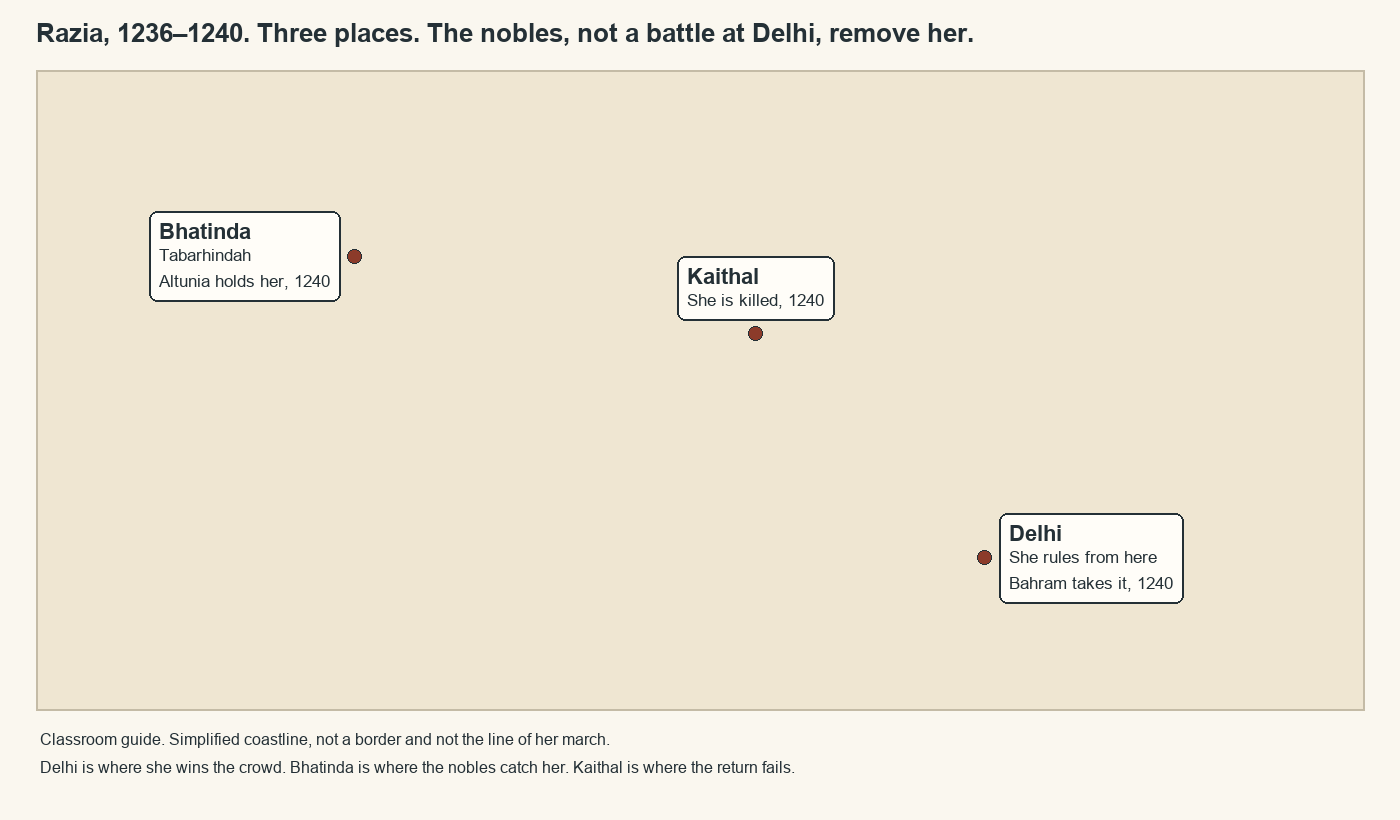
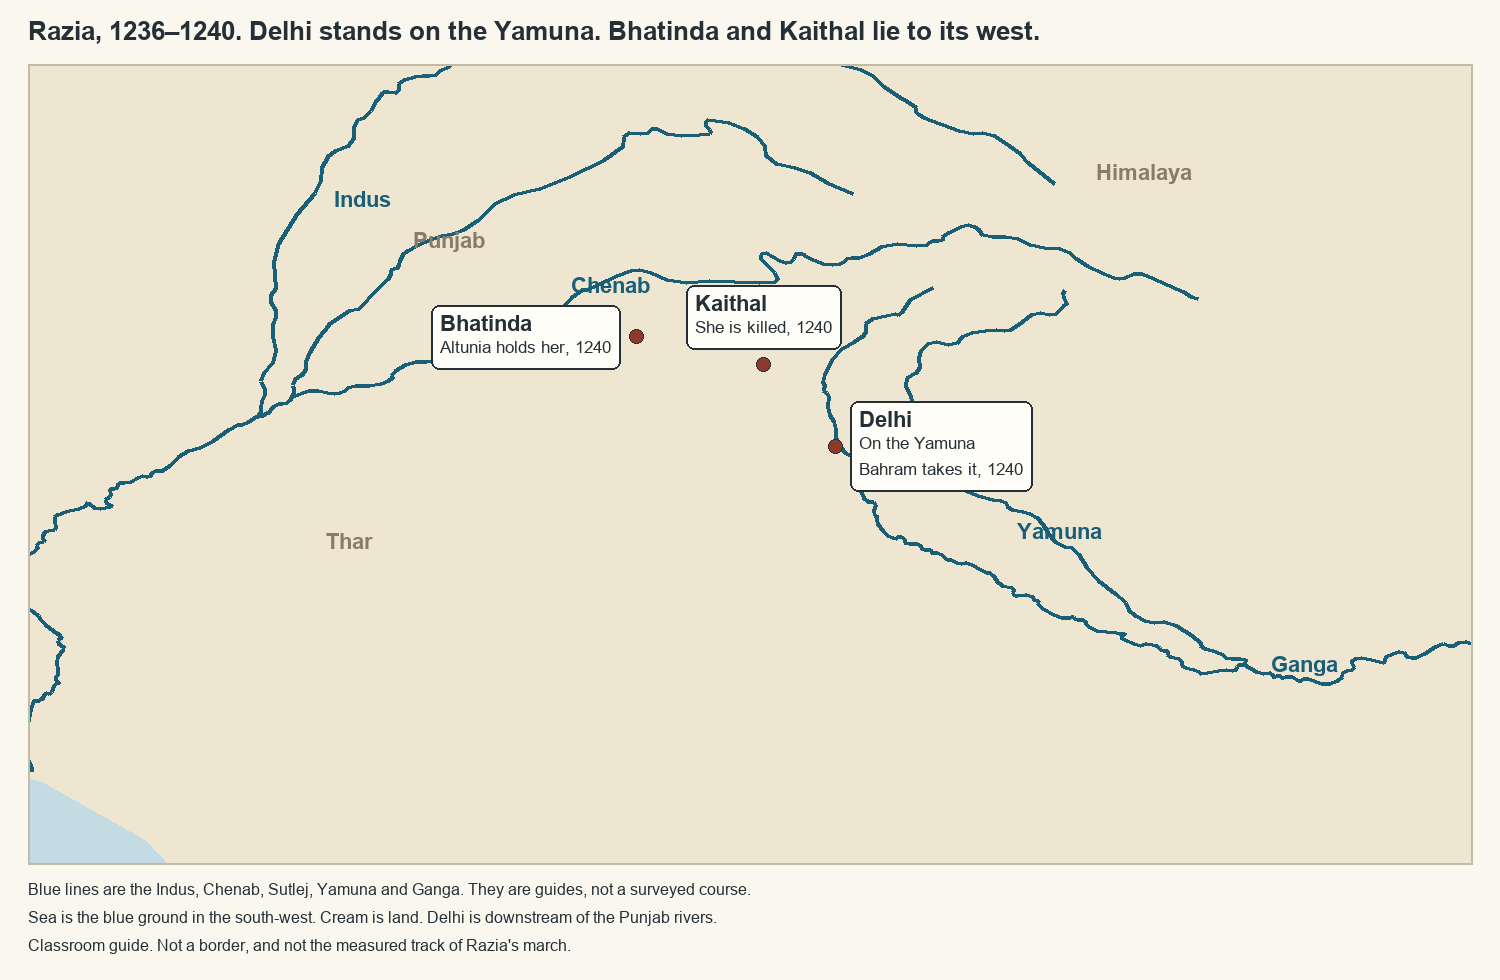
Remove outdated entries on Qutb ud-Din Aibak, Iltutmish, and Razia Sultan from medieval Indian history files. Update workspace configuration for improved navigation. Revise content to reflect accurate historical contexts and enhance clarity on the transitions between key figures in the Delhi Sultana

diff --git a/📜 History/India(Bharat)/Medieval Indian history/Early Medieval India/2. Delhi Sultan Period(1206-1526AD)/1. Slave Dynasty(1206)/07. Ghiyas ud-Din Balban (1266–1287).md b/📜 History/India(Bharat)/Medieval Indian history/Early Medieval India/2. Delhi Sultan Period(1206-1526AD)/1. Slave Dynasty(1206)/07. Ghiyas ud-Din Balban (1266–1287).md
@@ -1,0 +1,89 @@
+The exam name is **Balban**, also written Ghiyas ud-Din Balban. Before he took the throne he was **Ulugh Khan**. He is not Ghiyasuddin Tughlaq, and he is not a Khalji.
+
+Previous: [[06. Razia Sultan (1236–1240)]].
+
+![[balban-dates.png]]
+
+## Say this
+
+> **Balban, sultan from 1266 to 1287, restored the authority of the Delhi crown after twenty years in which the Turkish nobles made and unmade kings. He destroyed the power of the Group of Forty, held the Mongols on the Indus frontier, and put down the rebel Tughril in Bengal. He did not conquer the Deccan. The Slave line ends three years after his death, in 1290.**
+
+## The years before he is sultan
+
+Razia’s death did not produce a strong king. The Group of Forty kept disposing of sultans.
+
+| Years         | Sultan                                              | What to remember                                                                                                                                      |
+| ------------- | --------------------------------------------------- | ----------------------------------------------------------------------------------------------------------------------------------------------------- |
+| **1240–1242** | **Muizuddin Bahram**, Razia’s brother               | Killed by his own officers. In **1241** the Mongols sack Lahore. That disaster belongs to these weak years, not to Razia and not to a war Balban won. |
+| **1242–1246** | **Alauddin Masud**                                  | A stopgap. The nobles remove him.                                                                                                                     |
+| **1246–1266** | **Nasiruddin Mahmud**, the younger son of Iltutmish | He is not the son who died in Bengal in 1229. Balban, his father-in-law, is the real power, with the title **Ulugh Khan**.                            |
+| **1266–1287** | **Balban** himself                                  | The nobles raise him when Nasiruddin dies. He then breaks the group that had been raising sultans.                                                    |
+
+He had been Iltutmish’s slave, an Ilbari Turk, and one of the Forty. The man who came from that corps is the man who ends its power. That is the pivot of the reign.
+
+## Who he was
+
+| Point      | What to write                                                                                                                                                     |
+| ---------- | ----------------------------------------------------------------------------------------------------------------------------------------------------------------- |
+| Person     | **Ghiyas ud-Din Balban**. Turkish. Ilbari. A slave of Iltutmish.                                                                                                  |
+| 1246–1266  | Naib and father-in-law of Sultan Nasiruddin Mahmud. The court already obeys Ulugh Khan.                                                                           |
+| 1266       | Becomes sultan.                                                                                                                                                   |
+| Policy     | Textbooks call it **blood and iron**. Spies, harsh punishment, no pardon for a rebel.                                                                             |
+| Kingship   | He takes the Persian idea of the sultan as **zill-i-Ilahi**, the shadow of God. Court ritual includes **sijda** and **paibos**, prostration and kissing the feet. |
+| 1287       | Dies in Delhi.                                                                                                                                                    |
+| Chronicler | **Ziauddin Barani**, *Tarikh-i-Firuz Shahi*. Barani writes in the Tughlaq age, so this picture of an awful king is his, not a diary kept in 1266.                 |
+|            |                                                                                                                                                                   |
+
+![[balban-face-fictional.jpg]]
+
+Fictional face. No portrait from his lifetime exists. The stern old man is only a way to remember the kind of court he kept. It is not a likeness.
+
+## Why the crown had to be feared
+
+After Razia, a sultan who was merely first among the Forty did not rule. Balban’s answer was to lift the crown above the nobles.
+
+He separated the dangerous men, took their iqtas back, and punished revolt in public. The Group of Forty ceases to be the body that chooses the king. He also kept high office for Turks of his own kind. Non-Turks and Indian converts were not to stand where Yaqut had stood under Razia. That exclusion is part of why the next dynasty, the Khaljis, feels like a change of people and not only a change of name.
+
+The ritual matters for the same reason. **Sijda**(prostration before the monarch) and **paibos**(kissing the feet of monarch) make every noble a subject. They are not a new religion. They are a Persian court borrowed to stop Turkish equals from treating the sultan as one of themselves.
+
+Do not write that he ruled by massacre alone. The spies and the ceremonies are the system. Fear without a frontier policy would still have lost Delhi to the Mongols.
+
+## The two frontiers
+
+![[balban-map.png]]
+
+Read the rivers before the cards. Delhi is on the Yamuna. The Mongols are beyond the Indus. Bengal is the far end of the Ganga.
+
+**The Indus.** He does not march into Central Asia, and he does not go south to build a Deccan empire. The Mongol pressure of this reign is a frontier war, not Chinggis Khan. Chinggis has been dead since 1227. Balban’s own son **Muhammad**, called **Khan-i-Shahid**, is killed fighting the Mongols near Multan in **1285**. Some books say 1286. He never recovers from that death. An able kinsman, **Sher Khan**, had held the same frontier. Barani says Balban removed him because he had grown too strong. The guard was weaker afterwards. Write the removal. Do not make the poison the centre of the answer.
+
+**Bengal.** About **1280**, **Tughril** rebels at Lakhnauti and takes a royal title. Balban, already old, marches east himself. Tughril is hunted down and killed. The punishment of the town is remembered as savage. Bengal is brought back under Delhi. It will slip again under later sultans. The point in this reign is that he would not leave a rebel king on the Ganga.
+
+## What you can still see
+
+![[balban-tomb.jpg]]
+
+His tomb in **Mehrauli Archaeological Park**, Delhi. The dome has fallen. The pointed openings are cited as an early **true arch** in the sultanate buildings. A true arch is built of wedge-shaped stones. The corbelled arches of Aibak’s mosque were made by laying stones inward until they met. What you see now is a ruin, not a finished dome, and not the Qutb Minar. Wikimedia Commons, CC BY-SA 4.0, File:Tomb of Balban, Mehrauli Archaeological Park, New Delhi, India.jpg.
+
+## Why 1290 follows so quickly
+
+He wanted his line to continue through Prince Muhammad. Muhammad was already dead. The nobles put **Kaiqubad**, a grandson, on the throne in **1287**. Kaiqubad was given to pleasure. **Bughra Khan**, another son, stayed in Bengal and did not come to hold Delhi. In **1290** **Jalaluddin Khalji** ends the Slave dynasty.
+
+Balban had made the crown feared. He had not left a son strong enough to wear it. The Khalji chapter begins there.
+
+## Traps
+
+| If you are about to write this | Write this instead |
+| --- | --- |
+| He founded the Delhi Sultanate | Aibak, 1206. Balban is late in the Slave line, 1266–1287. |
+| He is Ghiyasuddin Tughlaq | A different man, and a later dynasty, from 1320. |
+| He fought Chinggis Khan | Chinggis died in 1227. Balban’s Mongol war is the frontier of the 1270s and 1280s. |
+| The sack of Lahore in 1241 is his defeat | It falls in Bahram’s reign, twenty-five years before Balban is sultan. |
+| Nasiruddin Mahmud of 1246 died in Bengal in 1229 | Two different sons of Iltutmish. Balban serves the later one. |
+| He conquered the Deccan | He refused that road. The Indus and Bengal are his wars. |
+| Sijda means he changed the religion of Delhi | Court ritual. The sultan standing in for a Persian king, not a new faith. |
+| The Forty elected him and then kept power | He came from them, and then he broke them. |
+| His tomb is the Qutb Minar | A ruined tomb at Mehrauli. The minar was begun by Aibak. |
+
+## One answer
+
+Balban was Iltutmish’s Turkish slave and one of the Group of Forty. From 1246 he ruled in all but name for Nasiruddin Mahmud, and from 1266 he was sultan. He lifted the crown above the nobles with spies, public punishment, and the Persian ritual of sijda and paibos, and he destroyed the Forty as a king-making corps. He held the Mongols on the Indus and would not spend the reign on the Deccan. About 1280 he killed the rebel Tughril in Bengal. In 1285 his son Muhammad was killed near Multan, and Balban died in 1287. Kaiqubad could not hold what he had built. Jalaluddin Khalji ended the Slave dynasty in 1290.

diff --git a/📜 History/India(Bharat)/Medieval Indian history/Early Medieval India/2. Delhi Sultan Period(1206-1526AD)/1. Slave Dynasty(1206)/05. Iltutmish (1211–1236).md b/📜 History/India(Bharat)/Medieval Indian history/Early Medieval India/2. Delhi Sultan Period(1206-1526AD)/1. Slave Dynasty(1206)/05. Iltutmish (1211–1236).md
@@ -3,7 +3,7 @@ The exam name is **Iltutmish**, also written Shams ud-Din Iltutmish. Older books
 Previous: [[04. Qutb ud-Din Aibak (1206–1210)]]. Next: [[06. Razia Sultan (1236–1240)]].
 
 ![[iltutmish-dates.png]]
-
+ 
 ## Say this
 
 > **Iltutmish, 1211–1236, is the consolidator of the Delhi Sultanate. He fixed the capital at Delhi, removed Aibak’s rivals, kept the Mongols beyond the Indus, and in 1229 received the caliph’s recognition. Aibak began the dynasty. Iltutmish made it a state.**
@@ -14,14 +14,14 @@ Fictional face. Wikipedia has his tomb and his coins, not a portrait from life. 
 
 ## Who he was
 
-| Point | What to write |
-| --- | --- |
-| Person | **Shams ud-Din Iltutmish**. Turkish, of the **Ilbari** tribe. Sold as a child. |
-| Master | **Qutb ud-Din Aibak**. Iltutmish was Aibak’s slave, and he married Aibak’s daughter. |
-| 1211 | Delhi’s officers invite him against **Aram Shah**. He wins. The reign begins. |
-| Capital | **Delhi**. Aibak had ruled from Lahore. Iltutmish does not move the kingdom back to Ghazni. |
-| 1236 | Dies in Delhi. He has already named his daughter **Razia** to succeed him. |
-| Faith | **Sunni**. The court language is **Persian**. |
+| Point      | What to write                                                                                                             |
+| ---------- | ------------------------------------------------------------------------------------------------------------------------- |
+| Person     | **Shams ud-Din Iltutmish**. Turkish, of the **Ilbari** tribe. Sold as a child.                                            |
+| Master     | **Qutb ud-Din Aibak**. Iltutmish was Aibak’s slave, and he married Aibak’s daughter.                                      |
+| 1211       | Delhi’s officers invite him against **Aram Shah**. He wins. The reign begins.                                             |
+| Capital    | **Delhi**. Aibak had ruled from Lahore. Iltutmish does not move the kingdom back to Ghazni.                               |
+| 1236       | Dies in Delhi. He has already named his daughter **Razia** to succeed him.                                                |
+| Faith      | **Sunni**. The court language is **Persian**.                                                                             |
 | Chronicler | **Minhaj-i Siraj**, *Tabaqat-i Nasiri*. He writes for this house, so read him as a court history, not as a neutral diary. |
 
 ![[iltutmish-delhi-fictional.jpg]]
@@ -91,7 +91,7 @@ Their power is the problem he leaves behind. They accept a slave-sultan like him
 
 **4. The caliph’s letter, 1229.**
 
-Inside India he was already sultan because he held Delhi. The **mansur** matters outside that fact. It says the Abbasid caliph recognises him, so a rival Turkish officer cannot call him a mere rebel slave. It does not mean the caliph ruled Delhi, and it does not mean the caliph sent an army.
+Inside India he was already sultan because he held Delhi. The **mansur(the letter of recognization)** matters outside that fact. It says the Abbasid caliph recognises him, so a rival Turkish officer cannot call him a mere rebel slave. It does not mean the caliph ruled Delhi, and it does not mean the caliph sent an army.
 
 ## What you can still see
 

diff --git a/📜 History/India(Bharat)/Medieval Indian history/Early Medieval India/2. Delhi Sultan Period(1206-1526AD)/1. Slave Dynasty(1206)/04. Qutb ud-Din Aibak (1206–1210).md b/📜 History/India(Bharat)/Medieval Indian history/Early Medieval India/2. Delhi Sultan Period(1206-1526AD)/1. Slave Dynasty(1206)/04. Qutb ud-Din Aibak (1206–1210).md
@@ -12,16 +12,16 @@ If the question says “founder”, write **Aibak, 1206**. If it says “who con
 
 ## Who he was
 
-| Point | What to write |
-| --- | --- |
-| Person | **Qutb ud-Din Aibak**. Turkish. Born in Central Asia and sold as a child. |
-| Master | **Muhammad Ghori** (Muizz al-Din). Aibak was his slave, then freed, then his general in India. |
-| People | Turkish military slave. Not an Arab, and not an Afghan. The court language around him is **Persian**. |
-| Faith | **Sunni** |
-| Before 1206 | After the second battle of Tarain, **1192**, Ghori left him in charge of the north Indian conquests. |
-| 1206–1210 | Rules the Indian conquests on his own. His court is at **Lahore**. |
-| 1210 | Dies at Lahore. The chronicle account is a fall while playing **chaugan**, polo. |
-| Name you will meet | **Lakh Baksh**, giver of lakhs, for his generosity. |
+| Point              | What to write                                                                                         |
+| ------------------ | ----------------------------------------------------------------------------------------------------- |
+| Person             | **Qutb ud-Din Aibak**. Turkish. Born in Central Asia and sold as a child.                             |
+| Master             | **Muhammad Ghori** (Muizz al-Din). Aibak was his slave, then freed, then his general in India.        |
+| People             | Turkish military slave. Not an Arab, and not an Afghan. The court language around him is **Persian**. |
+| Faith              | **Sunni**                                                                                             |
+| Before 1206        | After the second battle of Tarain, **1192**, Ghori left him in charge of the north Indian conquests.  |
+| 1206–1210          | Rules the Indian conquests on his own. His court is at **Lahore**.                                    |
+| 1210               | Dies at Lahore. The chronicle account is a fall while playing **chaugan**, polo.                      |
+| Name you will meet | **Lakh Baksh**, giver of lakhs, for his generosity.                                                   |
 
 **Mamluk** means a military slave. The dynasty is called Slave, or Mamluk, because its first rulers came from that class. It does not mean the people of Delhi were slaves. Aibak had already been freed. His own slave **Iltutmish** later marries his daughter and succeeds him. The label fits the founding. It does not fit every later sultan.
 

diff --git a/📜 History/India(Bharat)/Medieval Indian history/Early Medieval India/2. Delhi Sultan Period(1206-1526AD)/1. Slave Dynasty(1206)/06. Razia Sultan (1236–1240).md b/📜 History/India(Bharat)/Medieval Indian history/Early Medieval India/2. Delhi Sultan Period(1206-1526AD)/1. Slave Dynasty(1206)/06. Razia Sultan (1236–1240).md
@@ -1,6 +1,6 @@
 The exam name is **Razia**, also written Raziyya. Her title on the coins is **Sultan**. She is Iltutmish’s daughter, not his wife, and not Shah Turkan.
 
-Previous: [[05. Iltutmish (1211–1236)]].
+Previous: [[05. Iltutmish (1211–1236)]]. Next: [[07. Ghiyas ud-Din Balban (1266–1287)]].
 
 ![[razia-dates.png]]
 
@@ -70,7 +70,7 @@ Two graves in a small walled court in Old Delhi, near **Turkman Gate**, in the l
 
 ## What comes next
 
-Bahram rules only to **1242(2 year)**. Then **Alauddin Masud** to **1246**. Then the younger **Nasiruddin Mahmud**, 1246–1266, with **Balban** as the power behind the throne. Balban becomes sultan himself in **1266**. He is the man who later breaks what remains of the Group of Forty. That is a later chapter. Do not give his reign to Razia.
+Bahram rules only to **1242(2 year)**. Then **Alauddin Masud** to **1246**. Then the younger **Nasiruddin Mahmud**, 1246–1266, with **Balban** as the power behind the throne. Balban becomes sultan himself in **1266**. He is the man who later breaks what remains of the Group of Forty. That reign is [[07. Ghiyas ud-Din Balban (1266–1287)]]. Do not give it to Razia.
 
 The Mongols sack **Lahore in 1241**, the year after her death, under these weak successors. That disaster is not hers.
 

diff --git a/📜 History/India(Bharat)/Medieval Indian history/Overview.md b/📜 History/India(Bharat)/Medieval Indian history/Overview.md
@@ -31,7 +31,7 @@ Remember the five dynasties:
 | Sayyid       | 1414–1451 |
 | Lodi         | 1451–1526 |
 
-Important rulers include **[[04. Qutb ud-Din Aibak (1206–1210)|Qutb ud-Din Aibak]]**, **[[05. Iltutmish (1211–1236)|Iltutmish]]**, **[[06. Razia Sultan (1236–1240)|Razia]]**, Balban, Alauddin Khalji, Muhammad bin Tughlaq, Firoz Shah Tughlaq, Sikandar Lodi, and Ibrahim Lodi.
+Important rulers include **[[04. Qutb ud-Din Aibak (1206–1210)|Qutb ud-Din Aibak]]**, **[[05. Iltutmish (1211–1236)|Iltutmish]]**, **[[06. Razia Sultan (1236–1240)|Razia]]**, **[[07. Ghiyas ud-Din Balban (1266–1287)|Balban]]**, Alauddin Khalji, Muhammad bin Tughlaq, Firoz Shah Tughlaq, Sikandar Lodi, and Ibrahim Lodi.
 
 **4. South Indian Kingdoms**  
 Especially important are the **Vijayanagara Empire** and **Bahmani Sultanate**. **Krishnadevaraya** of Vijayanagara is particularly important for competitive exams.

diff --git a/📜 History/India(Bharat)/Medieval Indian history/Early Medieval India/Overview.md b/📜 History/India(Bharat)/Medieval Indian history/Early Medieval India/Overview.md
@@ -6,6 +6,7 @@ Revision maps, same coastline, who holds the ground and who loses it: [[Bharat i
 4. [[04. Qutb ud-Din Aibak (1206–1210)]] — the Delhi Sultanate begins. Ghori laid the base. Aibak is the first ruler.
 5. [[05. Iltutmish (1211–1236)]] — he consolidates it. Delhi becomes the capital.
 6. [[06. Razia Sultan (1236–1240)]] — his daughter. The Turkish nobles remove her in 1240.
+7. [[07. Ghiyas ud-Din Balban (1266–1287)]] — he breaks those nobles, holds the Indus, and dies in 1287. The Slave line ends in 1290.
 
 
 After **Harsha died in 647 CE**, he left **no strong successor**, so his empire broke apart. India again became divided among several regional kingdoms.
